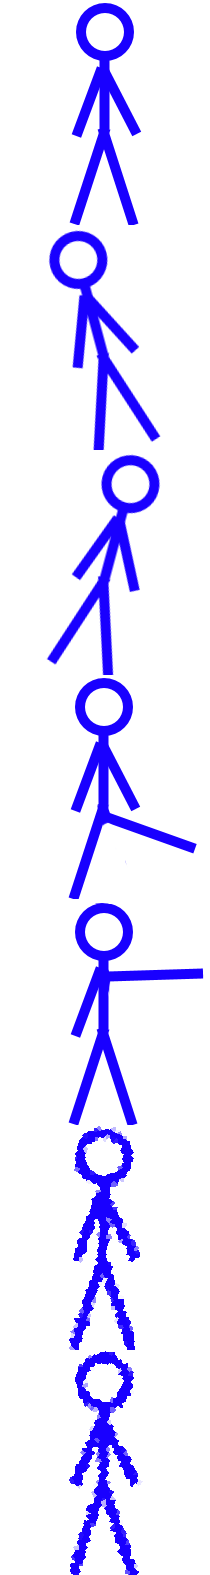
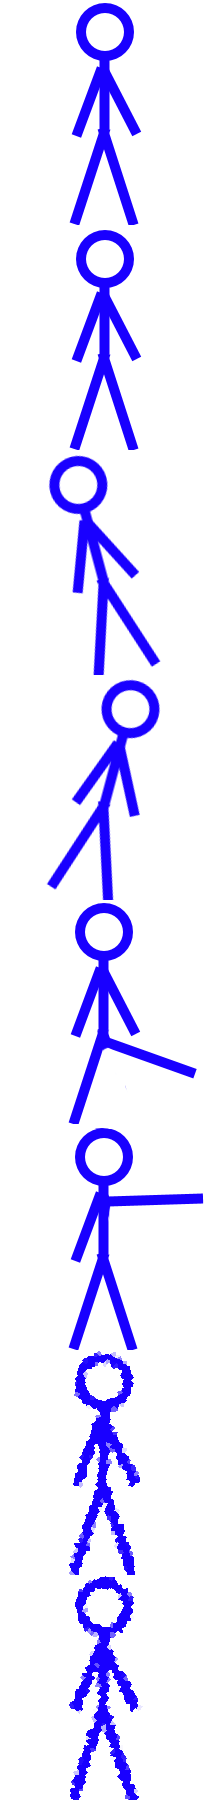
Begins to add fighters.

Changed region(s): [[0.2286, 0.0, 0.9714, 1.0]]

diff --git a/Entity.cpp b/Entity.cpp
@@ -112,34 +112,121 @@ class MainMenuController : public Entity{
 
 class Fighter : public Entity{
 	//abstract class for all fighters; provides health structure
-	public:
+	sf::Texture fighterTexture;
+	sf::Sprite fighterSprite;
+	sf::Clock stateClock; //time at which the current state started, used for animations
+	sf::Vector2f fighterPos;
+	int fighterState = 0;//0: idle, 1:moving, 2:damaged, 3:attacking
+	int spriteIndex = 0;//0: idle, 1:moving, 2:damaged, 3:attacking
 	
 	int health = 100; //percentage; assumed max of 100
 	
+	static const int sprite_x = 210; //tile size of single sprites in sprite sheet. used to split sheet
+	static const int sprite_y = 225;
 	
-	
-	/*
-	void Update() override {
-		//TODO logic, animation, drawing
-		
+	void setSpriteIndex(int i){
+		fighterSprite.setTextureRect(sf::IntRect(0, sprite_y*i, sprite_x, sprite_y));
+		spriteIndex = i;
 	}
-	*/
+	
+	public:
+	void takeDamage(int damage){
+		health -= damage;
+		//TODO animation, Iframes
+	}
+	int getHealth(){
+		return health;
+	}
+	
+	Fighter(int fighterID){
+		//set position
+		fighterPos.y = Game::SCREEN_Y-sprite_y-95; //TODO make these less magical; change starting position depending on which player it is
+		//fighterPos.y = 0;
+		//fighterPos.x = Game::SCREEN_X+100;
+		fighterPos.x = 0;
+		//load sprite sheet. TODO: make this more sophisticated? table of fighter names/texture paths somewhere? or make the filenames based on ID?
+		switch(fighterID){
+			case 0:
+				fighterTexture.loadFromFile("Assets/blueMan.png");
+				break;
+			case 1:
+				fighterTexture.loadFromFile("Assets/redMan.png");
+				break;
+		}
+		fighterSprite.setTexture(fighterTexture); //TODO scale everything based on window size...? do I even allow configurable window size?
+		//set initial sprite rectangle
+		setSpriteIndex(0);
+		Game::drawQ->add(fighterSprite, DrawLayers::stage);
+	}
+	
+	void Update() override {
+		//TODO integrate with the event queue? ideally we operate independent of framerate...?
+		//TODO input split? am I using gamepads or keyboard splitting??? something else???
+		
+		//input
+		bool left = sf::Keyboard::isKeyPressed(sf::Keyboard::Left);
+		bool right = sf::Keyboard::isKeyPressed(sf::Keyboard::Right);
+		
+		//movement
+		if (left^right){
+			if (fighterState==0){
+				stateClock.restart();
+				fighterState = 1;
+				setSpriteIndex(2);
+			}
+			if (left) fighterPos.x -= 2.5;
+			if (right)fighterPos.x += 2.5;
+			if (stateClock.getElapsedTime().asSeconds() > 0.3f){
+				stateClock.restart();
+				setSpriteIndex((spriteIndex==2?3:2)); //TODO mirror depending on direction
+			}
+		}
+		//idle
+		else {
+			if (fighterState!=0){
+				stateClock.restart();
+				fighterState = 0;
+				setSpriteIndex(0);				
+			}
+			if (stateClock.getElapsedTime().asSeconds() > 0.5f){
+				stateClock.restart();
+				setSpriteIndex(((spriteIndex==0)?1:0));
+			}
+		}
+		//attacking
+		/*
+		create a class with internal state variables and a big ol list of potential input sequences.
+		each fighter has an instance of this classs inside of it (or make the fighter class really fat?)
+		it has functions to receive inputs as they occur. it stores inputs and their timestamps (or at least the time since the previous input) in member variables.
+		when this class is instantiated, a pointer is pointed towards a function that should be used to update its state, either through a function pointer or a class instance with a function pointer member.
+		this function will be unique for each fighter, and will define the fighter's abilities completely.
+		based on the most recent N inputs, the times at which those inputs occured, and the curent time, it outputs a state and sprite index. probably also cares about whether an input or attack hit.
+		the above logic should only check the returned state to alter the fighter's position.
+		hitbox generation/calculation should also be based on the state. moves which have multiple hitbox stages, like sex kicks, will be represented with multiple fighter states.
+		how do we generate/calculate hitboxes? how do we attach a hitbox/hurtbox to a state? the above function should probably return a list of hitboxes (objects or number representations?).
+		perhaps the function should internalize all fighter-specific decisions: how much to move given a specific input, the sprite to change to, and the hitboxes to use this frame.
+		
+		overall: this class should effect the desired sprite, movement, and hitboxes output by the fighter-specific function which implements each fighter's specific mechanics.
+		*/
+		
+		fighterSprite.setPosition(fighterPos);
+	}
 	
 };
 
 class FightStage : public Entity{
 	sf::Texture stageTexture;
 	sf::Sprite stageSprite;
-	sf::Vector2u stageTextureSize;
 public:	
 	FightStage(int stageID){
 		//TODO change stage image based on chosen stage
 		//TODO how to handle boundaries?
 		//scrolling can be handled by a SFML View
 		stageTexture.loadFromFile("Assets/warrior_shrine.png");
-		stageTextureSize = stageTexture.getSize();
+		sf::Vector2u stageTextureSize = stageTexture.getSize();
 		stageSprite.setTexture(stageTexture);
-		stageSprite.setTextureRect(sf::IntRect(stageTextureSize.x/2 - Game::SCREEN_X/2, 0, Game::SCREEN_X, Game::SCREEN_Y));
+		//stageSprite.setTextureRect(sf::IntRect(stageTextureSize.x/2 - Game::SCREEN_X/2, 0, Game::SCREEN_X, Game::SCREEN_Y));
+		stageSprite.setScale((float)Game::SCREEN_X/(float)stageTextureSize.x, (float)Game::SCREEN_Y/(float)stageTextureSize.y);
 		
 		Game::drawQ->add(stageSprite, DrawLayers::background);
 	}

diff --git a/main.cpp b/main.cpp
@@ -24,6 +24,15 @@ int main(){
 	
 	loadScene(SceneList::MainMenu);
 	
+	//TODO consider implementing a helpful pattern:
+	//sf::Clock clock;
+	//while (window.isOpen())
+	//{
+	//	sf::Time elapsed = clock.restart();
+	//	updateGame(elapsed);
+	//	...
+	//}
+	
 	while (window.isOpen()){
 		//list of entity iterator positions for entities that mark themselves for deletion.
 		std::list<std::list<Entity*>::iterator> delList;
@@ -39,6 +48,7 @@ int main(){
 		}
 		
 		//process events
+		//TODO consider having a global table maping keys/inputs to function pointers. Alternatively, have each entity process each event, with most entities ignoring most inputs
 		sf::Event event;
 		while (window.pollEvent(event)){
 			if (event.type == sf::Event::Closed)

diff --git a/LoadScene.cpp b/LoadScene.cpp
@@ -22,8 +22,15 @@ int loadScene(SceneList::Scene scene){
 			break;
 			
 		case SceneList::FightScene:{
+			//instantiate stage
 			FightStage* stage = new FightStage(Game::stageID);
 			Game::entityList->push_back(stage);
+			
+			//instantiate fighters
+			Entity* leftFighter = new Fighter(0);
+			Game::entityList->push_back(leftFighter);
+			//instantiate controller?
+			
 		}
 		break;
 	}
